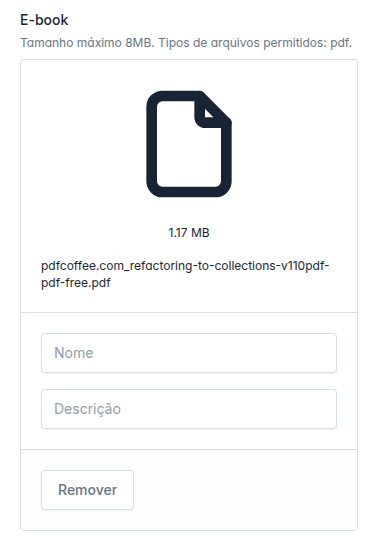
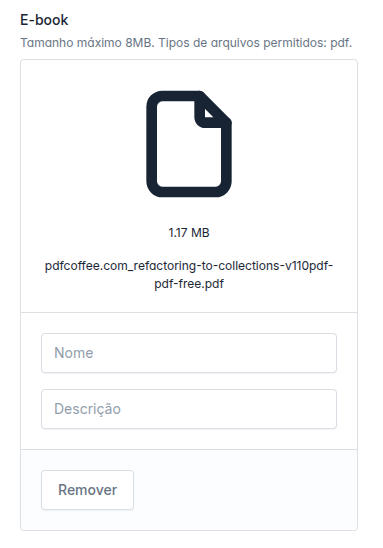
feat(form): adiciona alinhamento ao texto

Changed region(s): [[0.0862, 0.4653, 0.8616, 0.5274]]

diff --git a/src/View/Components/Forms/Inputs/File.php b/src/View/Components/Forms/Inputs/File.php
@@ -104,9 +104,13 @@ class File extends Component
                                                  class="ic-xl w-8 h-8"/>
                                 </span>
                                  @if($fileInfo)
-                                    <small>{{ round($fileInfo?->getSize() / 1000 / 1000, 2) . ' MB' }}</small>
+                                    <small class="text-center">
+                                        {{ round($fileInfo?->getSize() / 1000 / 1000, 2) . ' MB' }}
+                                    </small>
                                  @endif
-                                 <small>{{ $fileInfo?->getClientOriginalName() ?? $file['path'] }}</small>
+                                 <small class="text-center">
+                                    {{ $fileInfo?->getClientOriginalName() ?? $file['path'] }}
+                                 </small>
                             </div>
                             <input
                                 type="file"
